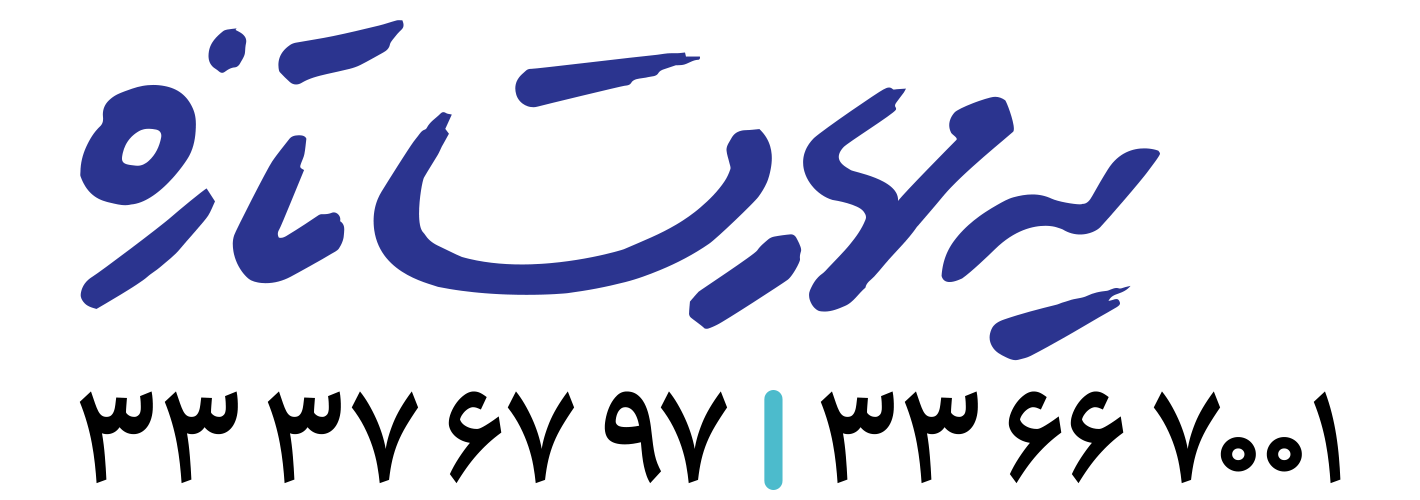
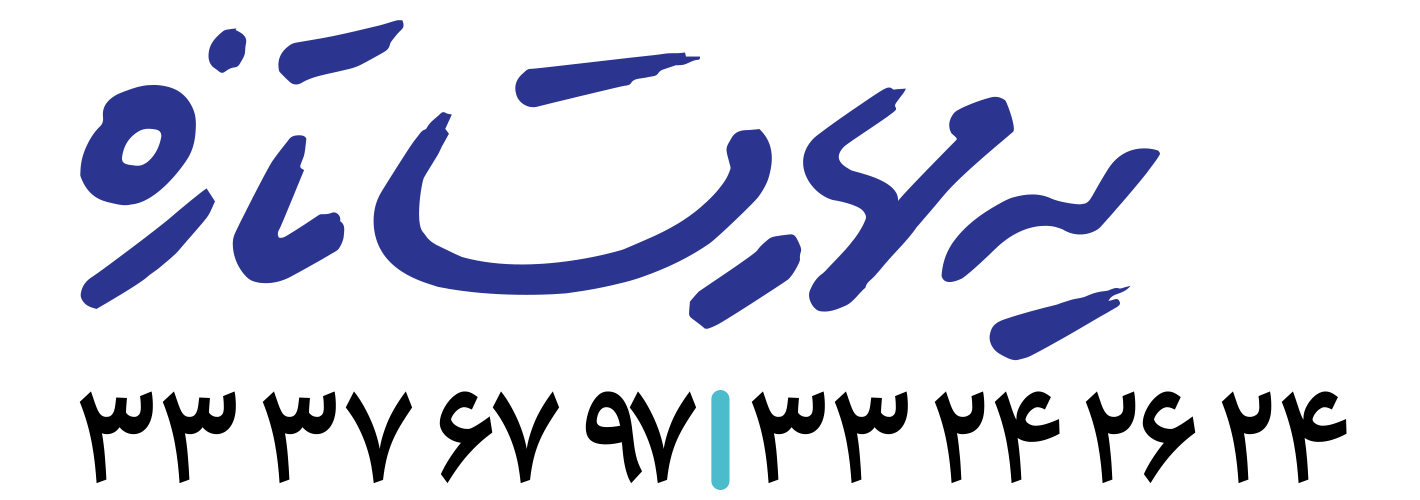
contact info changes
slider path fix

Changed region(s): [[0.1239, 0.78, 0.9606, 0.99], [0.1239, 0.9, 0.1549, 0.96]]

diff --git a/resources/themes/velocity/views/home/slider.blade.php b/resources/themes/velocity/views/home/slider.blade.php
@@ -16,24 +16,31 @@
                                         @endif
                                         @if($slide['slider_path'])
                                             <a href="{{$slide['slider_path']}}" class="btn">
-                                                <span class="btn-inner">{{$slide['description'] ?: 'مشاهده مطلب'}}</span>
+                                                <span class="btn-inner">{{$slide['button'] ?: 'مشاهده مطلب'}}</span>
                                             </a>
                                         @endif
                                     </div>
                                 </div>
                             @else
-                                <div class="slide-content">
-                                    <div class="caption">
-                                        <div class="title"></div>
+                                @if($slide['slider_path'])
+                                    <a class="slide-content" href="{{$slide['slider_path']}}">
+                                        <div class="caption">
+                                            <div class="title"></div>
+                                        </div>
+                                    </a>
+                                @else
+                                    <div class="slide-content">
+                                        <div class="caption">
+                                            <div class="title"></div>
+                                        </div>
                                     </div>
-                                </div>
+                                @endif
                             @endif
 
                             <div class="image-container {{$slide['show_content'] ? 'has-description' : ''}}">
                                 <img loading="lazy" src="{{asset('/storage/'.$slide['path'])}}" alt="" class="image">
                             </div>
                         </div>
-
 
                     @empty
                         <div class="slide is-active">
@@ -69,7 +76,7 @@
                 <div class="arrows">
                     <div class="arrow prev">
           <span class="svg svg-arrow-left">
-            <svg version="1.1" id="svg4-Layer_1" xmlns="http://www.w3.org/2000/svg" xmlns:xlink="http://www.w3.org/1999/xlink" x="0px" y="0px" width="14px" height="26px"
+            <svg version="1.1" id="svg4-Layer_1" xmlns="http://www.w3.org/2000/svg" x="0px" y="0px" width="14px" height="26px"
                  viewBox="0 0 14 26" enable-background="new 0 0 14 26" xml:space="preserve"> <path
                     d="M13,26c-0.256,0-0.512-0.098-0.707-0.293l-12-12c-0.391-0.391-0.391-1.023,0-1.414l12-12c0.391-0.391,1.023-0.391,1.414,0s0.391,1.023,0,1.414L2.414,13l11.293,11.293c0.391,0.391,0.391,1.023,0,1.414C13.512,25.902,13.256,26,13,26z"/> </svg>
             <span class="alt sr-only"></span>
@@ -77,7 +84,8 @@
                     </div>
                     <div class="arrow next">
           <span class="svg svg-arrow-right">
-            <svg version="1.1" id="svg5-Layer_1" xmlns="http://www.w3.org/2000/svg" xmlns:xlink="http://www.w3.org/1999/xlink" x="0px" y="0px" width="14px" height="26px"
+            <svg version="1.1" id="svg5-Layer_1" xmlns="http://www.w3.org/2000/svg" x="0px" y="0px" width="14px"
+                 height="26px"
                  viewBox="0 0 14 26" enable-background="new 0 0 14 26" xml:space="preserve"> <path
                     d="M1,0c0.256,0,0.512,0.098,0.707,0.293l12,12c0.391,0.391,0.391,1.023,0,1.414l-12,12c-0.391,0.391-1.023,0.391-1.414,0s-0.391-1.023,0-1.414L11.586,13L0.293,1.707c-0.391-0.391-0.391-1.023,0-1.414C0.488,0.098,0.744,0,1,0z"/> </svg>
             <span class="alt sr-only"></span>

diff --git a/resources/views/shop/footer/maps.blade.php b/resources/views/shop/footer/maps.blade.php
@@ -8,15 +8,17 @@
             <p style="text-align: center;">قزوین، چهارراه ولیعصر(عج) جنب بانک سپه</p>
             <div class="map-responsive">
                 <img src="{{asset('images/shop/map2.png')}}" loading="lazy"
-                     data-src="{{asset('images/shop/map2.png')}}" class="w-100 lazyload" data-width="890" data-height="447">
+                     data-src="{{asset('images/shop/map2.png')}}" class="w-100 lazyload" data-width="890"
+                     data-height="447">
             </div>
         </div>
         <div class="col-md-6 second-map">
             <h5 style="text-align: center;">مرکز دو</h5>
-            <p style="text-align: center;">قزوین خیابان دانشگاه،کوچه خاکعلی (۲۹) پلاک ۱۵</p>
+            <p style="text-align: center;">قزوین، سه راه خیام، جنب پاساژ علوی</p>
             <div class="map-responsive">
-                <img src="{{asset('images/shop/map1.png')}}" loading="lazy"
-                     data-src="{{asset('images/shop/map1.png')}}" class="w-100 lazyload" data-width="890" data-height="450">
+                <img src="{{asset('images/shop/map1.jpg')}}" loading="lazy"
+                     data-src="{{asset('images/shop/map1.jpg')}}" class="w-100 lazyload" data-width="890"
+                     data-height="450">
 
             </div>
         </div>

diff --git a/resources/themes/velocity/views/layouts/top-nav/index.blade.php b/resources/themes/velocity/views/layouts/top-nav/index.blade.php
@@ -15,13 +15,15 @@
 <nav class="row align-items-stretch justify-content-around" id="top">
     <div class="col-sm-6">
         <a class="navbar-brand" href="{{ route('shop.home.index') }}" aria-label="Logo">
-            <img class="logo" src="{{ core()->getCurrentChannel()->logo_url ?? asset('images/logo-text.png') }}" alt=""/>
+            <img class="logo" src="{{ core()->getCurrentChannel()->logo_url ?? asset('images/logo-text.png') }}"
+                 alt=""/>
         </a>
     </div>
 
     <div class="col-sm-6">
         <div class="align-items-center d-flex h-100 justify-content-end w-100">
-            <img class="logo" src="{{ core()->getCurrentChannel()->logo_url ?? asset('images/moto.png') }}" alt=""/>
+            <img class="logo" src="{{ core()->getCurrentChannel()->logo_url ?? asset('images/moto.png') }}?v=1.1"
+                 alt=""/>
         </div>
     </div>
 </nav>
